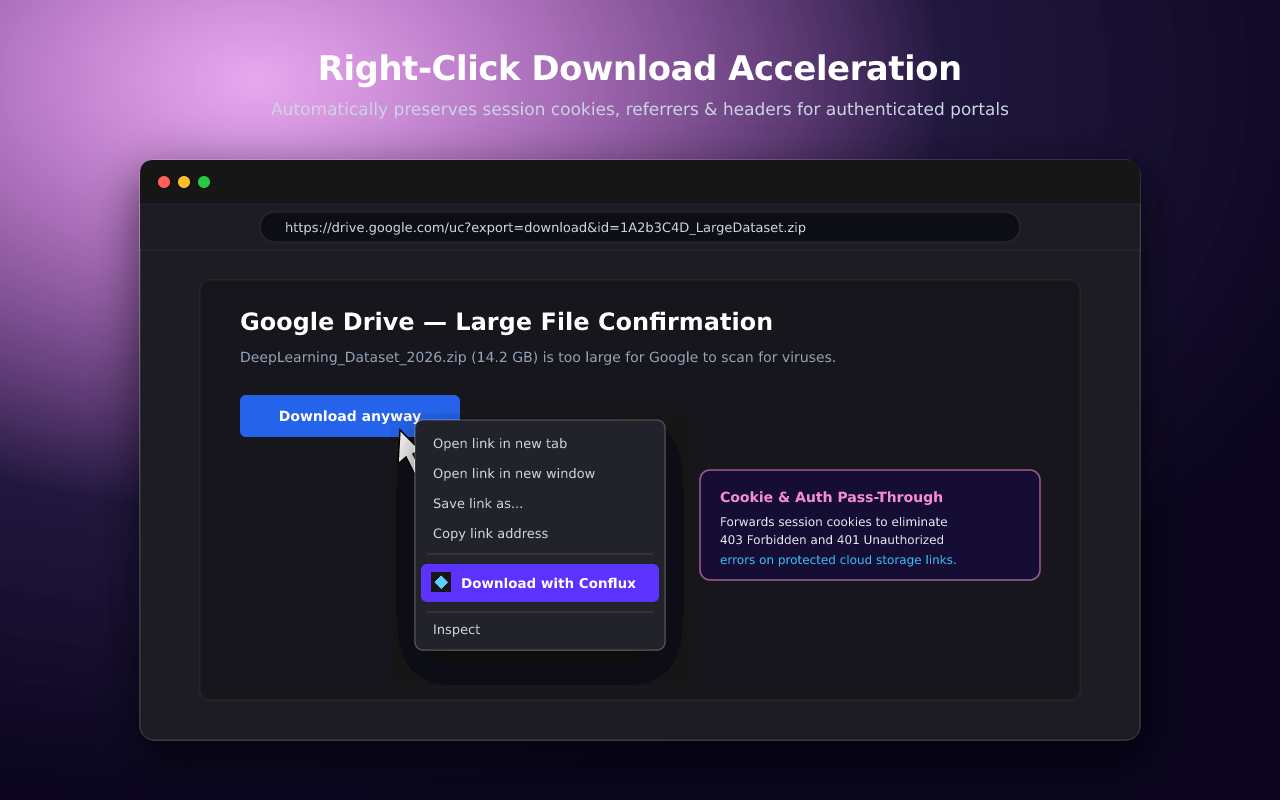
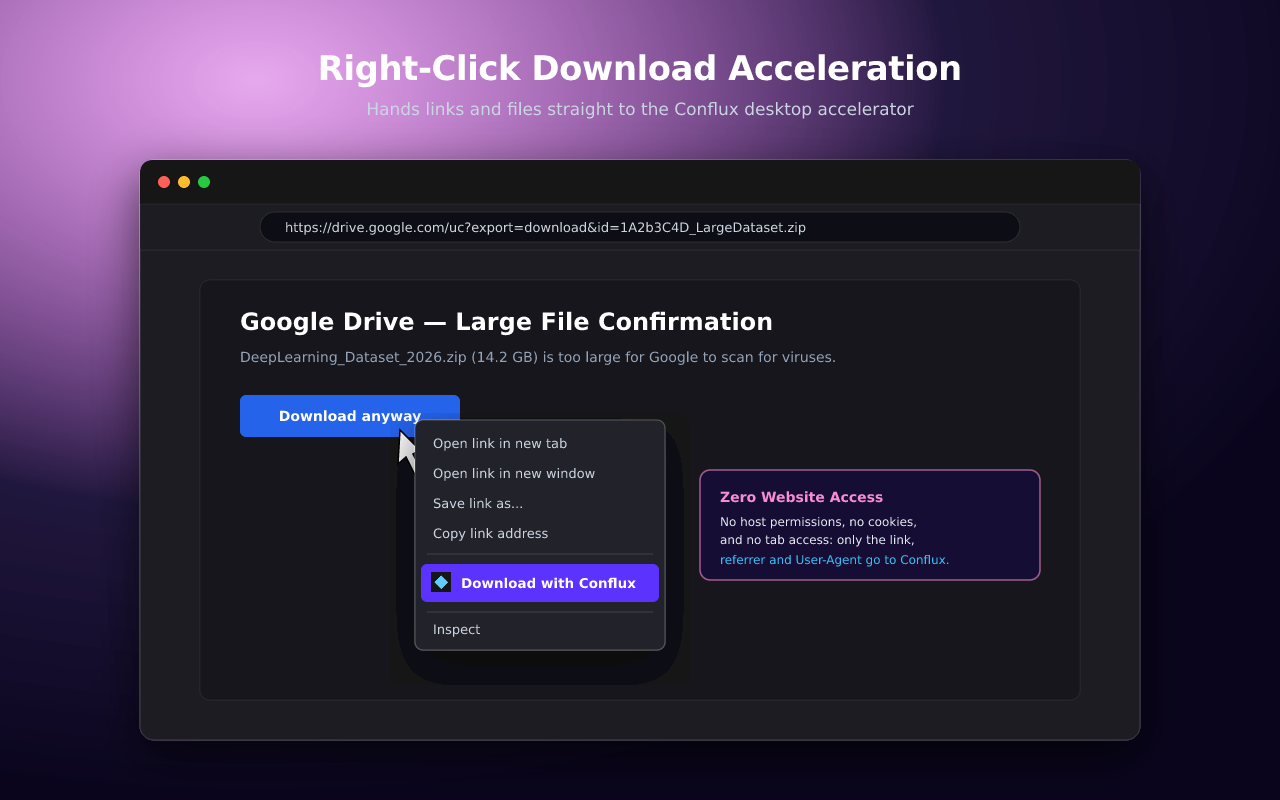
feat(extension): drop host, cookies and tabs permissions for faster store review
Remove host_permissions (<all_urls>), cookies and tabs; downloads are handed to
Conflux with URL, referrer and user agent only. Use info.pageUrl for the
context-menu referer, and cancel an intercepted browser download only after
Conflux accepts it. Update store listing, README and screenshot; bump to 0.2.1.

Changed region(s): [[0.5625, 0.5938, 0.75, 0.7188], [0.2188, 0.125, 0.7812, 0.1562]]

diff --git a/extensions/conflux-browser/background.js b/extensions/conflux-browser/background.js
@@ -30,17 +30,6 @@ async function getSettings() {
   });
 }
 
-async function getCookiesForUrl(url) {
-  try {
-    const cookies = await chrome.cookies.getAll({ url });
-    if (!cookies || cookies.length === 0) return null;
-    return cookies.map((c) => `${c.name}=${c.value}`).join("; ");
-  } catch (err) {
-    console.debug("[Conflux] Failed to retrieve cookies for URL:", url, err);
-    return null;
-  }
-}
-
 function showNotification(title, message) {
   if (chrome.notifications) {
     chrome.notifications.create({
@@ -54,7 +43,7 @@ function showNotification(title, message) {
 
 function sendDownloadToConflux(payload) {
   return new Promise((resolve, reject) => {
-    console.log("[Conflux] Sending download payload to desktop host:", payload);
+    console.log("[Conflux] Sending download to desktop host:", payload.url);
     chrome.runtime.sendNativeMessage(NATIVE_HOST, payload, (response) => {
       if (chrome.runtime.lastError) {
         const err = chrome.runtime.lastError.message;
@@ -88,7 +77,7 @@ chrome.runtime.onInstalled.addListener(() => {
   });
 });
 
-chrome.contextMenus.onClicked.addListener(async (info, tab) => {
+chrome.contextMenus.onClicked.addListener(async (info) => {
   if (info.menuItemId === "conflux-download-link") {
     const targetUrl = info.linkUrl || info.srcUrl;
     console.log("[Conflux] Context menu clicked. Target URL:", targetUrl);
@@ -97,8 +86,7 @@ chrome.contextMenus.onClicked.addListener(async (info, tab) => {
       return;
     }
 
-    const referer = tab?.url || "";
-    const cookies = await getCookiesForUrl(targetUrl);
+    const referer = info.pageUrl || "";
     let extractedName = null;
     try {
       const pathname = new URL(targetUrl).pathname;
@@ -111,7 +99,6 @@ chrome.contextMenus.onClicked.addListener(async (info, tab) => {
       url: targetUrl,
       referer: referer || null,
       user_agent: navigator.userAgent,
-      cookies: cookies || null,
       filename: extractedName
     };
 
@@ -178,12 +165,6 @@ chrome.downloads.onCreated.addListener(async (downloadItem) => {
     }
   }
 
-  // Cancel and erase browser download
-  chrome.downloads.cancel(downloadItem.id, () => {
-    chrome.downloads.erase({ id: downloadItem.id });
-  });
-
-  const cookies = await getCookiesForUrl(url);
   const extractedName = downloadItem.filename
     ? downloadItem.filename.split(/[\\/]/).pop()
     : (urlPath.split("/").pop() || null);
@@ -193,14 +174,17 @@ chrome.downloads.onCreated.addListener(async (downloadItem) => {
     url: url,
     referer: downloadItem.referrer || null,
     user_agent: navigator.userAgent,
-    cookies: cookies || null,
     filename: extractedName
   };
 
   try {
     await sendDownloadToConflux(payload);
+    // Only drop the browser download once Conflux has accepted it
+    chrome.downloads.cancel(downloadItem.id, () => {
+      chrome.downloads.erase({ id: downloadItem.id });
+    });
   } catch (e) {
-    console.error("[Conflux] Failed to auto-intercept download to Conflux:", e);
+    console.error("[Conflux] Failed to auto-intercept download to Conflux; leaving browser download running:", e);
   }
 });
 

diff --git a/extensions/conflux-browser/STORE_LISTING.md b/extensions/conflux-browser/STORE_LISTING.md
@@ -29,7 +29,8 @@ This companion extension seamlessly bridges your web browser and the Conflux Des
 KEY FEATURES
 
 • One-Click Context Menu: Right-click any link, video stream, or audio file and choose "Download with Conflux" to immediately send it to the desktop accelerator.
-• Session & Auth Preservation: Automatically forwards session cookies, Referer, and User-Agent headers to Conflux so authenticated downloads (Google Drive, cloud drives, member portals) succeed without 403 Forbidden or 401 Unauthorized errors.
+• Request Context: Forwards the Referer and User-Agent to Conflux so servers that validate them accept the hand-off.
+• Minimal Permissions: No access to website data, cookies, or your tabs.
 • Automatic Download Interception (Opt-in): Intercepts browser downloads for designated file types (.zip, .iso, .exe, .tar.gz, .mp4, etc.) and routes them to Conflux.
 • Filter Rules: Configure custom file extensions, minimum file size thresholds, and domain exclusions in the extension options.
 • Fast Native Messaging: Communicates directly with the Conflux Desktop application using the OS-level Native Messaging API without background network servers or open listening ports.
@@ -56,16 +57,14 @@ When submitting to the Chrome Web Store Developer Dashboard, you will be asked t
    - *Justification:* Required to detect when the user starts downloading a file (`chrome.downloads.onCreated`), verify whether it matches the user's interception filters, and cancel the browser download so it can be accelerated by Conflux.
 2. **`nativeMessaging`**
    - *Justification:* Required to communicate with the locally installed Conflux desktop application via the OS-level standard input/output pipe.
-3. **`cookies` & `<all_urls>` (host_permissions)**
-   - *Justification:* Required to retrieve session cookies for the specific download URL (`chrome.cookies.getAll`) so protected or authenticated downloads (e.g. cloud storage services) do not fail with HTTP 403 Forbidden errors when handed off to Conflux.
-4. **`contextMenus`**
+3. **`contextMenus`**
    - *Justification:* Required to provide the right-click "Download with Conflux" menu item on links, audio, and video elements.
-5. **`storage`**
+4. **`storage`**
    - *Justification:* Required to save user preferences (interception toggle state, file extension filters, minimum file size threshold, and excluded domains) in synced extension storage.
-6. **`notifications`**
+5. **`notifications`**
    - *Justification:* Required to notify the user if communication with Conflux Desktop fails or if the desktop app needs to be launched.
-7. **`tabs`**
-   - *Justification:* Required to query and update the active browser tab when launching the Conflux Desktop application via custom protocol (`conflux://open`), ensuring browser external protocol permission prompts appear in the center of the window rather than being clipped.
+
+*Host permissions: none requested. The extension does not read page content, cookies, or tab URLs.*
 
 ---
 
@@ -75,7 +74,7 @@ Submit this URL in the developer dashboard:
 `https://manjeet2k.github.io/conflux/privacy.html`
 
 Single-purpose statement:
-*"The single purpose of this extension is to forward user-selected download links and associated session metadata from the browser to the locally installed Conflux Desktop download manager."*
+*"The single purpose of this extension is to forward user-selected download links and their referrer and User-Agent from the browser to the locally installed Conflux Desktop download manager."*
 
 ---
 

diff --git a/extensions/conflux-browser/README.md b/extensions/conflux-browser/README.md
@@ -5,7 +5,7 @@ The official browser companion for **Conflux Download Accelerator**. Seamlessly 
 ## Features
 
 - **Context Menu Integration**: Right-click any link, video, or audio file and choose **"Download with Conflux"**.
-- **Auth & Session Preservation**: Automatically extracts session cookies (`Cookie`) and page context (`Referer`, `User-Agent`) so private and authenticated downloads (Google Drive, cloud drives, member portals) succeed without `403 Forbidden` or `401 Unauthorized`.
+- **Request Context Preservation**: Forwards the page `Referer` and `User-Agent` so servers that validate them accept the hand-off.
 - **Automatic Interception (Opt-in)**: Intercepts browser downloads matching configurable file extensions (`.zip`, `.iso`, `.exe`, `.tar.gz`, `.mp4`, etc.) and optional minimum file size thresholds, routing them to Conflux.
 - **Zero Background Daemons**: Uses the Windows Native Messaging API and Conflux's single-instance IPC bridge (`conflux-desktop.exe --from-browser <payload>`) to wake the desktop app in under 20ms with zero persistent background servers or listening ports.
 - **Zero-Extension Fallback**: Works alongside `conflux://` protocol links for environments without extension support.
@@ -56,5 +56,5 @@ conflux-desktop.exe --unregister-browser
 
 - **No Remote Telemetry**: The extension contains no analytics, ads, or external scripts.
 - **Localhost Only**: Communication occurs strictly over OS-level stdio pipes directly with the local `conflux-desktop.exe` binary.
-- **Cookie Scope**: Cookies are read exclusively for the target download domain at the moment of download dispatch and passed directly into Conflux's secure in-memory download engine.
+- **Minimal Permissions**: No host permissions, no cookie access, and no tab access. Only the download URL, referrer, and User-Agent are handed to Conflux.
 - **Privacy Policy**: Read our complete [Browser Extension Privacy Policy](https://manjeet2k.github.io/conflux/privacy.html).
